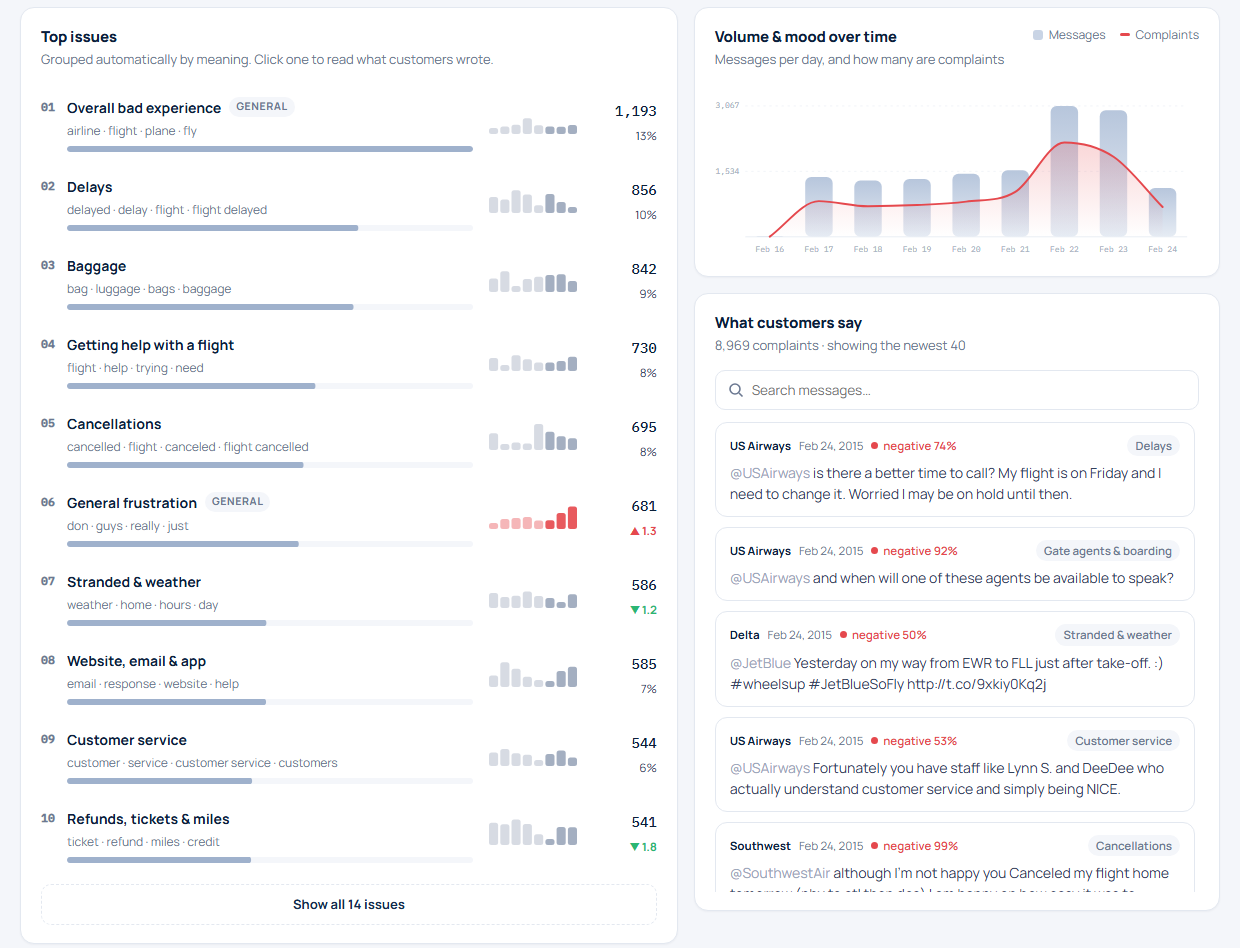
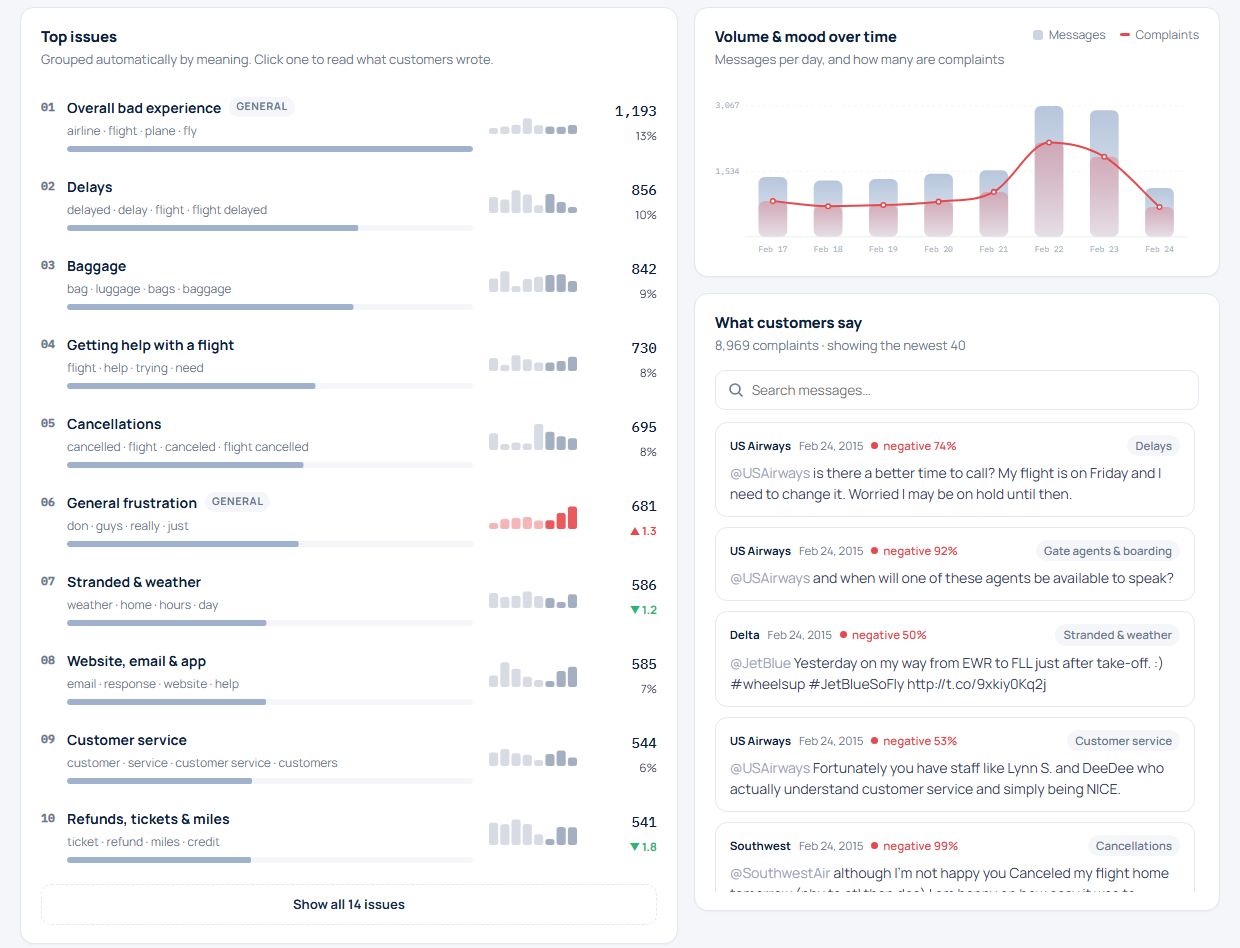
Make the chart line match its columns
Each day's column now shows its complaints as a red part inside it,
and the line runs through the top of every red part with a dot per day.
Near-empty edge days (one message on Feb 16) are dropped, so the line
no longer dives to zero at the start. Refreshes the README screenshot.

Changed region(s): [[0.6129, 0.0918, 0.95, 0.2753]]

diff --git a/demo/index.html b/demo/index.html
@@ -602,12 +602,17 @@ function renderChart(rows, B) {
   $("chartSub").textContent = topic ? `Complaints about ${topic.name.toLowerCase()} per ${B.unit}, and their trend` : `Messages per ${B.unit}, and how many are complaints`;
   $("barLegend").textContent = topic ? topic.name : "Messages";
   $("lineLegend").textContent = topic ? "Trend" : "Complaints";
-  const data = B.keys.map(k => {
+  let data = B.keys.map(k => {
     const g = rows.filter(r => B.key(r.t) === k), comp = g.filter(r => r.s === 0);
-    if (!topic) return { k, n: g.length, c: comp.length, neg: pct(comp.length, g.length) };
+    if (!topic) return { k, all: g.length, n: g.length, c: comp.length, neg: pct(comp.length, g.length) };
     const t = comp.filter(r => r.topic === topic.id).length;
-    return { k, n: t, c: t, neg: pct(t, comp.length) };
+    return { k, all: g.length, n: t, c: t, neg: pct(t, comp.length) };
   });
+  // Drop near-empty edge days (the data starts or stops mid-day): one message on the first day
+  // pulled the line down to zero and away from the columns.
+  const med = data.map(d => d.all).sort((a, b) => a - b)[data.length >> 1];
+  while (data.length > 2 && data[0].all < med * .2) data.shift();
+  while (data.length > 2 && data[data.length - 1].all < med * .2) data.pop();
   const W = 640, H = 230, L = 40, R = 16, T = 14, Bm = 28, iw = W - L - R, ih = H - T - Bm;
   const maxN = Math.max(...data.map(d => d.n), 1), bw = iw / data.length, base = T + ih;
   const x = i => L + bw * i + bw / 2, y1 = v => base - v / maxN * ih * .92, y2 = y1;
@@ -619,13 +624,16 @@ function renderChart(rows, B) {
     <defs>
       <linearGradient id="gBar" x1="0" y1="0" x2="0" y2="1"><stop offset="0" stop-color="#B7C6DC"/><stop offset="1" stop-color="#E6ECF4"/></linearGradient>
       <linearGradient id="gBarOn" x1="0" y1="0" x2="0" y2="1"><stop offset="0" stop-color="#8FA5C6"/><stop offset="1" stop-color="#D3DCEA"/></linearGradient>
+      <linearGradient id="gComp" x1="0" y1="0" x2="0" y2="1"><stop offset="0" stop-color="#E5484D" stop-opacity=".30"/><stop offset="1" stop-color="#E5484D" stop-opacity=".08"/></linearGradient>
       <linearGradient id="gArea" x1="0" y1="0" x2="0" y2="1"><stop offset="0" stop-color="#E5484D" stop-opacity=".22"/><stop offset="1" stop-color="#E5484D" stop-opacity="0"/></linearGradient>
     </defs>
     ${ticks.map(v => `<line x1="${L}" x2="${W - R}" y1="${y1(v).toFixed(1)}" y2="${y1(v).toFixed(1)}" stroke="#EDF1F6" stroke-dasharray="3 5"/><text x="${L - 8}" y="${(y1(v) + 3).toFixed(1)}" text-anchor="end">${fmt(v)}</text>`).join("")}
     <line x1="${L}" x2="${W - R}" y1="${base}" y2="${base}" stroke="#E3E8F0"/>
     <g class="bars">${data.map((d, i) => `<rect data-i="${i}" x="${(x(i) - cw / 2).toFixed(1)}" y="${y1(d.n).toFixed(1)}" width="${cw.toFixed(1)}" height="${(base - y1(d.n)).toFixed(1)}" rx="${Math.min(8, cw / 2).toFixed(1)}" fill="url(#gBar)" style="animation-delay:${i * 45}ms"/>`).join("")}</g>
-    <path class="area" d="${curve}L${x(data.length - 1).toFixed(1)},${base}L${x(0).toFixed(1)},${base}Z" fill="url(#gArea)"/>
+    ${topic ? `<path class="area" d="${curve}L${x(data.length - 1).toFixed(1)},${base}L${x(0).toFixed(1)},${base}Z" fill="url(#gArea)"/>`
+      : `<g class="bars comp">${data.map((d, i) => `<rect x="${(x(i) - cw / 2).toFixed(1)}" y="${y1(d.c).toFixed(1)}" width="${cw.toFixed(1)}" height="${(base - y1(d.c)).toFixed(1)}" rx="${Math.min(8, cw / 2).toFixed(1)}" fill="url(#gComp)" style="animation-delay:${i * 45}ms"/>`).join("")}</g>`}
     <path class="curve" d="${curve}" pathLength="1" fill="none" stroke="var(--neg)" stroke-width="2.6" stroke-linecap="round"/>
+    <g class="pts">${pts.map(p => `<circle cx="${p[0].toFixed(1)}" cy="${p[1].toFixed(1)}" r="3" fill="#fff" stroke="var(--neg)" stroke-width="2"/>`).join("")}</g>
     ${data.map((d, i) => i % every ? "" : `<text x="${x(i).toFixed(1)}" y="${H - 8}" text-anchor="middle">${B.label(d.k)}</text>`).join("")}
     <line class="guide" x1="0" x2="0" y1="${T}" y2="${base}" stroke="#9AA6BA" stroke-dasharray="3 4" opacity="0"/>
     <circle class="dot" r="5.5" fill="#fff" stroke="var(--neg)" stroke-width="2.6" opacity="0"/>
@@ -633,7 +641,7 @@ function renderChart(rows, B) {
   </svg>`;
 
   // hover: a soft guide line and a dot follow the mouse, and the day's column darkens
-  const svg = el.querySelector("svg"), tip = $("tip"), guide = svg.querySelector(".guide"), dot = svg.querySelector(".dot"), bars = svg.querySelectorAll(".bars rect");
+  const svg = el.querySelector("svg"), tip = $("tip"), guide = svg.querySelector(".guide"), dot = svg.querySelector(".dot"), bars = svg.querySelectorAll(".bars:not(.comp) rect");
   const hit = svg.querySelector(".hit");
   hit.addEventListener("mousemove", e => {
     const r = svg.getBoundingClientRect(), sx = (e.clientX - r.left) / r.width * W;
